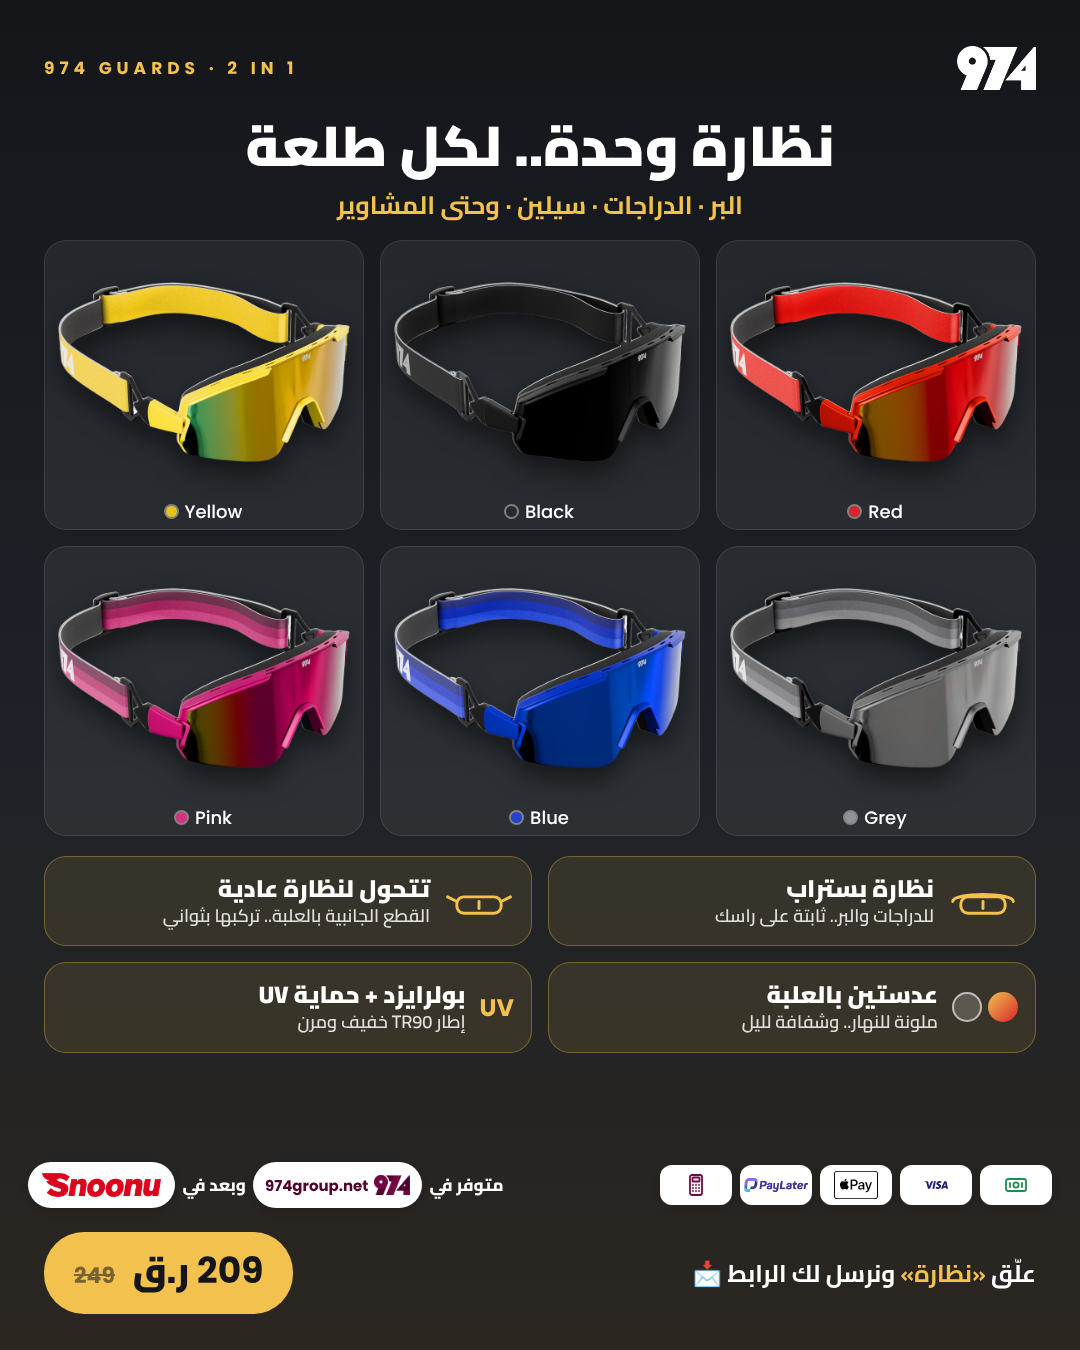
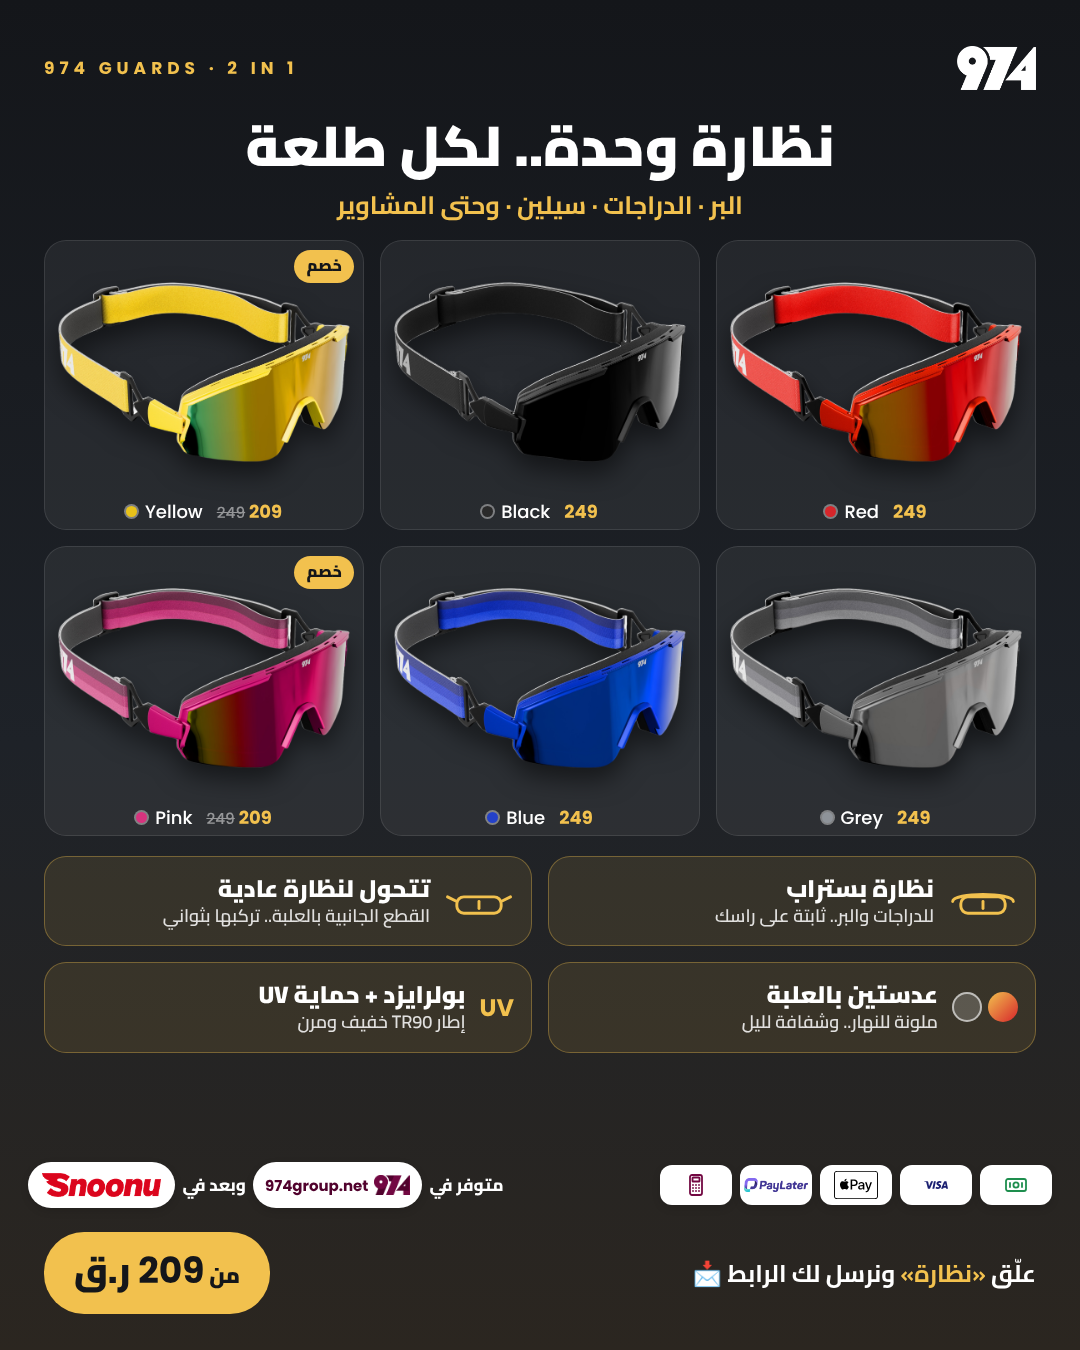
Goggles 2in1: per-colour prices
Claude-Session: https://claude.ai/code/session_01K6HDWNrArsGSJekW1VcEzV

diff --git a/posts/2026-11/summer-goggles/974-goggles-2in1-story.html b/posts/2026-11/summer-goggles/974-goggles-2in1-story.html
@@ -15,6 +15,8 @@ body{width:1080px;height:1920px;background:linear-gradient(180deg,#14161A 0%,#1E
 .im{flex:1;display:flex;align-items:center;justify-content:center;padding:12px 14px 0;min-height:0}
 .im img{max-width:100%;max-height:100%;filter:drop-shadow(0 12px 12px rgba(0,0,0,.5))}
 .nm{height:41.800000000000004px;display:flex;align-items:center;justify-content:center;gap:8px;font-family:Poppins;font-weight:500;font-size:19.8px}
+.cd{position:relative} .off{position:absolute;top:10px;right:10px;background:#F2C14E;color:#14161A;font-weight:900;font-size:17.6px;border-radius:20px;padding:0 12px 3px;z-index:2}
+.pp{margin-left:6px;font-weight:700;color:#F2C14E} .pp s{color:#fff;opacity:.5;font-weight:500;font-size:.85em}
 .nm i{width:11px;height:11px;border-radius:50%;background:var(--c);box-shadow:0 0 0 2px rgba(255,255,255,.4)}
 .feat{position:absolute;left:44px;right:44px;top:1246px;display:grid;grid-template-columns:1fr 1fr;gap:16px;direction:rtl}
 .f{border-radius:22px;background:rgba(242,193,78,.1);box-shadow:inset 0 0 0 1px rgba(242,193,78,.35);padding:19.8px 18px;display:flex;align-items:center;gap:14px}
@@ -47,7 +49,7 @@ body{width:1080px;height:1920px;background:linear-gradient(180deg,#14161A 0%,#1E
 </style></head><body>
 <div class="top"><span>974 GUARDS · 2 IN 1</span><img src="file:///home/claude/974-social/posts/2026-11/pilates-socks/src/logo-white.png"></div>
 <div class="h"><b>نظارة وحدة.. لكل طلعة</b><i>البر · الدراجات · سيلين · وحتى المشاوير</i></div>
-<div class="grid"><div class="cd" style="--c:#E8C21A"><div class="im"><img src="file:///home/claude/974-social/posts/2026-11/summer-goggles/cut/yellow.png"></div><div class="nm"><i></i>Yellow</div></div><div class="cd" style="--c:#2A2A2A"><div class="im"><img src="file:///home/claude/974-social/posts/2026-11/summer-goggles/cut/black.png"></div><div class="nm"><i></i>Black</div></div><div class="cd" style="--c:#D7262B"><div class="im"><img src="file:///home/claude/974-social/posts/2026-11/summer-goggles/cut/red.png"></div><div class="nm"><i></i>Red</div></div><div class="cd" style="--c:#D6337E"><div class="im"><img src="file:///home/claude/974-social/posts/2026-11/summer-goggles/cut/pink.png"></div><div class="nm"><i></i>Pink</div></div><div class="cd" style="--c:#2441C9"><div class="im"><img src="file:///home/claude/974-social/posts/2026-11/summer-goggles/cut/blue.png"></div><div class="nm"><i></i>Blue</div></div><div class="cd" style="--c:#8E9399"><div class="im"><img src="file:///home/claude/974-social/posts/2026-11/summer-goggles/cut/grey.png"></div><div class="nm"><i></i>Grey</div></div></div>
+<div class="grid"><div class="cd" style="--c:#E8C21A"><div class="off">خصم</div><div class="im"><img src="file:///home/claude/974-social/posts/2026-11/summer-goggles/cut/yellow.png"></div><div class="nm"><i></i>Yellow<span class="pp"><s>249</s> <b>209</b></span></div></div><div class="cd" style="--c:#2A2A2A"><div class="im"><img src="file:///home/claude/974-social/posts/2026-11/summer-goggles/cut/black.png"></div><div class="nm"><i></i>Black<span class="pp"><b>249</b></span></div></div><div class="cd" style="--c:#D7262B"><div class="im"><img src="file:///home/claude/974-social/posts/2026-11/summer-goggles/cut/red.png"></div><div class="nm"><i></i>Red<span class="pp"><b>249</b></span></div></div><div class="cd" style="--c:#D6337E"><div class="off">خصم</div><div class="im"><img src="file:///home/claude/974-social/posts/2026-11/summer-goggles/cut/pink.png"></div><div class="nm"><i></i>Pink<span class="pp"><s>249</s> <b>209</b></span></div></div><div class="cd" style="--c:#2441C9"><div class="im"><img src="file:///home/claude/974-social/posts/2026-11/summer-goggles/cut/blue.png"></div><div class="nm"><i></i>Blue<span class="pp"><b>249</b></span></div></div><div class="cd" style="--c:#8E9399"><div class="im"><img src="file:///home/claude/974-social/posts/2026-11/summer-goggles/cut/grey.png"></div><div class="nm"><i></i>Grey<span class="pp"><b>249</b></span></div></div></div>
 <div class="feat">
 <div class="f"><svg viewBox="0 0 120 60" fill="none" stroke="currentColor" stroke-width="5" stroke-linecap="round" stroke-linejoin="round"><path d="M8 30 C8 14 112 14 112 30"/><rect x="22" y="22" width="76" height="28" rx="12"/><path d="M60 30v12"/></svg><div><b>نظارة بستراب</b><em>للدراجات والبر.. ثابتة على راسك</em></div></div>
 <div class="f"><svg viewBox="0 0 120 60" fill="none" stroke="currentColor" stroke-width="5" stroke-linecap="round" stroke-linejoin="round"><rect x="22" y="22" width="76" height="28" rx="12"/><path d="M22 30 L6 22"/><path d="M98 30 L114 22"/><path d="M60 30v12"/></svg><div><b>تتحول لنظارة عادية</b><em>القطع الجانبية بالعلبة.. تركبها بثواني</em></div></div>
@@ -61,5 +63,5 @@ body{width:1080px;height:1920px;background:linear-gradient(180deg,#14161A 0%,#1E
 <div class="ch"><div class="lg"><img src="file:///home/claude/974-social/reels/2026-11/pilates/end/logos/paylater.png" style="height:40px"></div><i>أقساط</i></div>
 <div class="ch"><div class="lg"><svg viewBox="0 0 24 24" style="height:54px" fill="none" stroke="#720842" stroke-width="1.8" stroke-linecap="round" stroke-linejoin="round"><rect x="6" y="2" width="12" height="20" rx="2"/><rect x="8.5" y="4.5" width="7" height="4" rx=".6"/><path d="M9 12h.01M12 12h.01M15 12h.01M9 15h.01M12 15h.01M15 15h.01M9 18h.01M12 18h.01M15 18h.01"/></svg></div><i>بطاقة عند الاستلام</i></div>
 </div><div class="av"><span>متوفر في</span><div class="chip site"><img src="file:///home/claude/974-social/posts/2026-11/waterproof/src/mark-c.png"><b>974group.net</b></div><span>وبعد في</span><div class="chip"><img src="file:///home/claude/974-social/reels/2026-11/pilates/end/logos/snoonu.png"></div></div></div></div>
-<div class="foot"><div class="cta">علّق <em>«نظارة»</em> ونرسل لك الرابط 📩</div><div class="price"><b>209</b> ر.ق <s>249</s></div></div>
+<div class="foot"><div class="cta">علّق <em>«نظارة»</em> ونرسل لك الرابط 📩</div><div class="price"><small style="font-size:.6em">من </small><b>209</b> ر.ق</div></div>
 </body></html>

diff --git a/posts/2026-11/summer-goggles/974-goggles-2in1-post.html b/posts/2026-11/summer-goggles/974-goggles-2in1-post.html
@@ -15,6 +15,8 @@ body{width:1080px;height:1350px;background:linear-gradient(180deg,#14161A 0%,#1E
 .im{flex:1;display:flex;align-items:center;justify-content:center;padding:12px 14px 0;min-height:0}
 .im img{max-width:100%;max-height:100%;filter:drop-shadow(0 12px 12px rgba(0,0,0,.5))}
 .nm{height:38px;display:flex;align-items:center;justify-content:center;gap:8px;font-family:Poppins;font-weight:500;font-size:18px}
+.cd{position:relative} .off{position:absolute;top:10px;right:10px;background:#F2C14E;color:#14161A;font-weight:900;font-size:16px;border-radius:20px;padding:0 12px 3px;z-index:2}
+.pp{margin-left:6px;font-weight:700;color:#F2C14E} .pp s{color:#fff;opacity:.5;font-weight:500;font-size:.85em}
 .nm i{width:11px;height:11px;border-radius:50%;background:var(--c);box-shadow:0 0 0 2px rgba(255,255,255,.4)}
 .feat{position:absolute;left:44px;right:44px;top:856px;display:grid;grid-template-columns:1fr 1fr;gap:16px;direction:rtl}
 .f{border-radius:22px;background:rgba(242,193,78,.1);box-shadow:inset 0 0 0 1px rgba(242,193,78,.35);padding:18px 18px;display:flex;align-items:center;gap:14px}
@@ -47,7 +49,7 @@ body{width:1080px;height:1350px;background:linear-gradient(180deg,#14161A 0%,#1E
 </style></head><body>
 <div class="top"><span>974 GUARDS · 2 IN 1</span><img src="file:///home/claude/974-social/posts/2026-11/pilates-socks/src/logo-white.png"></div>
 <div class="h"><b>نظارة وحدة.. لكل طلعة</b><i>البر · الدراجات · سيلين · وحتى المشاوير</i></div>
-<div class="grid"><div class="cd" style="--c:#E8C21A"><div class="im"><img src="file:///home/claude/974-social/posts/2026-11/summer-goggles/cut/yellow.png"></div><div class="nm"><i></i>Yellow</div></div><div class="cd" style="--c:#2A2A2A"><div class="im"><img src="file:///home/claude/974-social/posts/2026-11/summer-goggles/cut/black.png"></div><div class="nm"><i></i>Black</div></div><div class="cd" style="--c:#D7262B"><div class="im"><img src="file:///home/claude/974-social/posts/2026-11/summer-goggles/cut/red.png"></div><div class="nm"><i></i>Red</div></div><div class="cd" style="--c:#D6337E"><div class="im"><img src="file:///home/claude/974-social/posts/2026-11/summer-goggles/cut/pink.png"></div><div class="nm"><i></i>Pink</div></div><div class="cd" style="--c:#2441C9"><div class="im"><img src="file:///home/claude/974-social/posts/2026-11/summer-goggles/cut/blue.png"></div><div class="nm"><i></i>Blue</div></div><div class="cd" style="--c:#8E9399"><div class="im"><img src="file:///home/claude/974-social/posts/2026-11/summer-goggles/cut/grey.png"></div><div class="nm"><i></i>Grey</div></div></div>
+<div class="grid"><div class="cd" style="--c:#E8C21A"><div class="off">خصم</div><div class="im"><img src="file:///home/claude/974-social/posts/2026-11/summer-goggles/cut/yellow.png"></div><div class="nm"><i></i>Yellow<span class="pp"><s>249</s> <b>209</b></span></div></div><div class="cd" style="--c:#2A2A2A"><div class="im"><img src="file:///home/claude/974-social/posts/2026-11/summer-goggles/cut/black.png"></div><div class="nm"><i></i>Black<span class="pp"><b>249</b></span></div></div><div class="cd" style="--c:#D7262B"><div class="im"><img src="file:///home/claude/974-social/posts/2026-11/summer-goggles/cut/red.png"></div><div class="nm"><i></i>Red<span class="pp"><b>249</b></span></div></div><div class="cd" style="--c:#D6337E"><div class="off">خصم</div><div class="im"><img src="file:///home/claude/974-social/posts/2026-11/summer-goggles/cut/pink.png"></div><div class="nm"><i></i>Pink<span class="pp"><s>249</s> <b>209</b></span></div></div><div class="cd" style="--c:#2441C9"><div class="im"><img src="file:///home/claude/974-social/posts/2026-11/summer-goggles/cut/blue.png"></div><div class="nm"><i></i>Blue<span class="pp"><b>249</b></span></div></div><div class="cd" style="--c:#8E9399"><div class="im"><img src="file:///home/claude/974-social/posts/2026-11/summer-goggles/cut/grey.png"></div><div class="nm"><i></i>Grey<span class="pp"><b>249</b></span></div></div></div>
 <div class="feat">
 <div class="f"><svg viewBox="0 0 120 60" fill="none" stroke="currentColor" stroke-width="5" stroke-linecap="round" stroke-linejoin="round"><path d="M8 30 C8 14 112 14 112 30"/><rect x="22" y="22" width="76" height="28" rx="12"/><path d="M60 30v12"/></svg><div><b>نظارة بستراب</b><em>للدراجات والبر.. ثابتة على راسك</em></div></div>
 <div class="f"><svg viewBox="0 0 120 60" fill="none" stroke="currentColor" stroke-width="5" stroke-linecap="round" stroke-linejoin="round"><rect x="22" y="22" width="76" height="28" rx="12"/><path d="M22 30 L6 22"/><path d="M98 30 L114 22"/><path d="M60 30v12"/></svg><div><b>تتحول لنظارة عادية</b><em>القطع الجانبية بالعلبة.. تركبها بثواني</em></div></div>
@@ -61,5 +63,5 @@ body{width:1080px;height:1350px;background:linear-gradient(180deg,#14161A 0%,#1E
 <div class="ch"><div class="lg"><img src="file:///home/claude/974-social/reels/2026-11/pilates/end/logos/paylater.png" style="height:40px"></div><i>أقساط</i></div>
 <div class="ch"><div class="lg"><svg viewBox="0 0 24 24" style="height:54px" fill="none" stroke="#720842" stroke-width="1.8" stroke-linecap="round" stroke-linejoin="round"><rect x="6" y="2" width="12" height="20" rx="2"/><rect x="8.5" y="4.5" width="7" height="4" rx=".6"/><path d="M9 12h.01M12 12h.01M15 12h.01M9 15h.01M12 15h.01M15 15h.01M9 18h.01M12 18h.01M15 18h.01"/></svg></div><i>بطاقة عند الاستلام</i></div>
 </div><div class="av"><span>متوفر في</span><div class="chip site"><img src="file:///home/claude/974-social/posts/2026-11/waterproof/src/mark-c.png"><b>974group.net</b></div><span>وبعد في</span><div class="chip"><img src="file:///home/claude/974-social/reels/2026-11/pilates/end/logos/snoonu.png"></div></div></div></div>
-<div class="foot"><div class="cta">علّق <em>«نظارة»</em> ونرسل لك الرابط 📩</div><div class="price"><b>209</b> ر.ق <s>249</s></div></div>
+<div class="foot"><div class="cta">علّق <em>«نظارة»</em> ونرسل لك الرابط 📩</div><div class="price"><small style="font-size:.6em">من </small><b>209</b> ر.ق</div></div>
 </body></html>

diff --git a/posts/2026-11/summer-goggles/gen.py b/posts/2026-11/summer-goggles/gen.py
@@ -3,13 +3,13 @@ sys.path.insert(0,'/home/claude/974-social/templates'); import payfoot
 SP='/tmp/claude-0/-home-claude/bcc2c2d5-4d57-5df4-9795-f402b1a1cd9a/scratchpad'
 C=os.path.abspath('cut')+'/'
 LOGO='/home/claude/974-social/posts/2026-11/pilates-socks/src/logo-white.png'
-GS=[('yellow','Yellow','#E8C21A'),('black','Black','#2A2A2A'),('red','Red','#D7262B'),('pink','Pink','#D6337E'),('blue','Blue','#2441C9'),('grey','Grey','#8E9399')]
+GS=[('yellow','Yellow','#E8C21A',209),('black','Black','#2A2A2A',249),('red','Red','#D7262B',249),('pink','Pink','#D6337E',209),('blue','Blue','#2441C9',249),('grey','Grey','#8E9399',249)]
 STRAP='''<svg viewBox="0 0 120 60" fill="none" stroke="currentColor" stroke-width="5" stroke-linecap="round" stroke-linejoin="round"><path d="M8 30 C8 14 112 14 112 30"/><rect x="22" y="22" width="76" height="28" rx="12"/><path d="M60 30v12"/></svg>'''
 ARMS='''<svg viewBox="0 0 120 60" fill="none" stroke="currentColor" stroke-width="5" stroke-linecap="round" stroke-linejoin="round"><rect x="22" y="22" width="76" height="28" rx="12"/><path d="M22 30 L6 22"/><path d="M98 30 L114 22"/><path d="M60 30v12"/></svg>'''
 def page(story):
     W,H=1080,(1920 if story else 1350); s=1.1 if story else 1; T=150 if story else 0
     ch=290 if not story else 360
-    cards=''.join(f'<div class="cd" style="--c:{c}"><div class="im"><img src="file://{C}{k}.png"></div><div class="nm"><i></i>{n}</div></div>' for k,n,c in GS)
+    cards=''.join(f'<div class="cd" style="--c:{c}">'+('<div class="off">خصم</div>' if p==209 else '')+f'<div class="im"><img src="file://{C}{k}.png"></div><div class="nm"><i></i>{n}<span class="pp">'+(f'<s>249</s> <b>{p}</b>' if p==209 else f'<b>{p}</b>')+'</span></div></div>' for k,n,c,p in GS)
     if not story: hT,gT,mT,fT=112,240,240+2*ch+16+20,0
     else: hT,gT=300,470; mT=gT+2*ch+16+40
     return f'''<!doctype html><html><head><meta charset="utf-8"><style>
@@ -29,6 +29,8 @@ body{{width:{W}px;height:{H}px;background:linear-gradient(180deg,#14161A 0%,#1E2
 .im{{flex:1;display:flex;align-items:center;justify-content:center;padding:12px 14px 0;min-height:0}}
 .im img{{max-width:100%;max-height:100%;filter:drop-shadow(0 12px 12px rgba(0,0,0,.5))}}
 .nm{{height:{38*s}px;display:flex;align-items:center;justify-content:center;gap:8px;font-family:Poppins;font-weight:500;font-size:{18*s}px}}
+.cd{{position:relative}} .off{{position:absolute;top:10px;right:10px;background:#F2C14E;color:#14161A;font-weight:900;font-size:{16*s}px;border-radius:20px;padding:0 12px 3px;z-index:2}}
+.pp{{margin-left:6px;font-weight:700;color:#F2C14E}} .pp s{{color:#fff;opacity:.5;font-weight:500;font-size:.85em}}
 .nm i{{width:11px;height:11px;border-radius:50%;background:var(--c);box-shadow:0 0 0 2px rgba(255,255,255,.4)}}
 .feat{{position:absolute;left:44px;right:44px;top:{mT}px;display:grid;grid-template-columns:1fr 1fr;gap:16px;direction:rtl}}
 .f{{border-radius:22px;background:rgba(242,193,78,.1);box-shadow:inset 0 0 0 1px rgba(242,193,78,.35);padding:{18*s}px 18px;display:flex;align-items:center;gap:14px}}
@@ -54,7 +56,7 @@ body{{width:{W}px;height:{H}px;background:linear-gradient(180deg,#14161A 0%,#1E2
 <div class="f"><div class="sw" style="font-family:Poppins;font-weight:700;color:#F2C14E;font-size:{24*s}px">UV</div><div><b>بولرايزد + حماية UV</b><em>إطار TR90 خفيف ومرن</em></div></div>
 </div>
 <div class="pf">{payfoot.html()}</div>
-<div class="foot"><div class="cta">علّق <em>«نظارة»</em> ونرسل لك الرابط 📩</div><div class="price"><b>209</b> ر.ق <s>249</s></div></div>
+<div class="foot"><div class="cta">علّق <em>«نظارة»</em> ونرسل لك الرابط 📩</div><div class="price"><small style="font-size:.6em">من </small><b>209</b> ر.ق</div></div>
 </body></html>'''
 for kind,st in (('post',False),('story',True)):
     n=f'974-goggles-2in1-{kind}'; H=1920 if st else 1350
